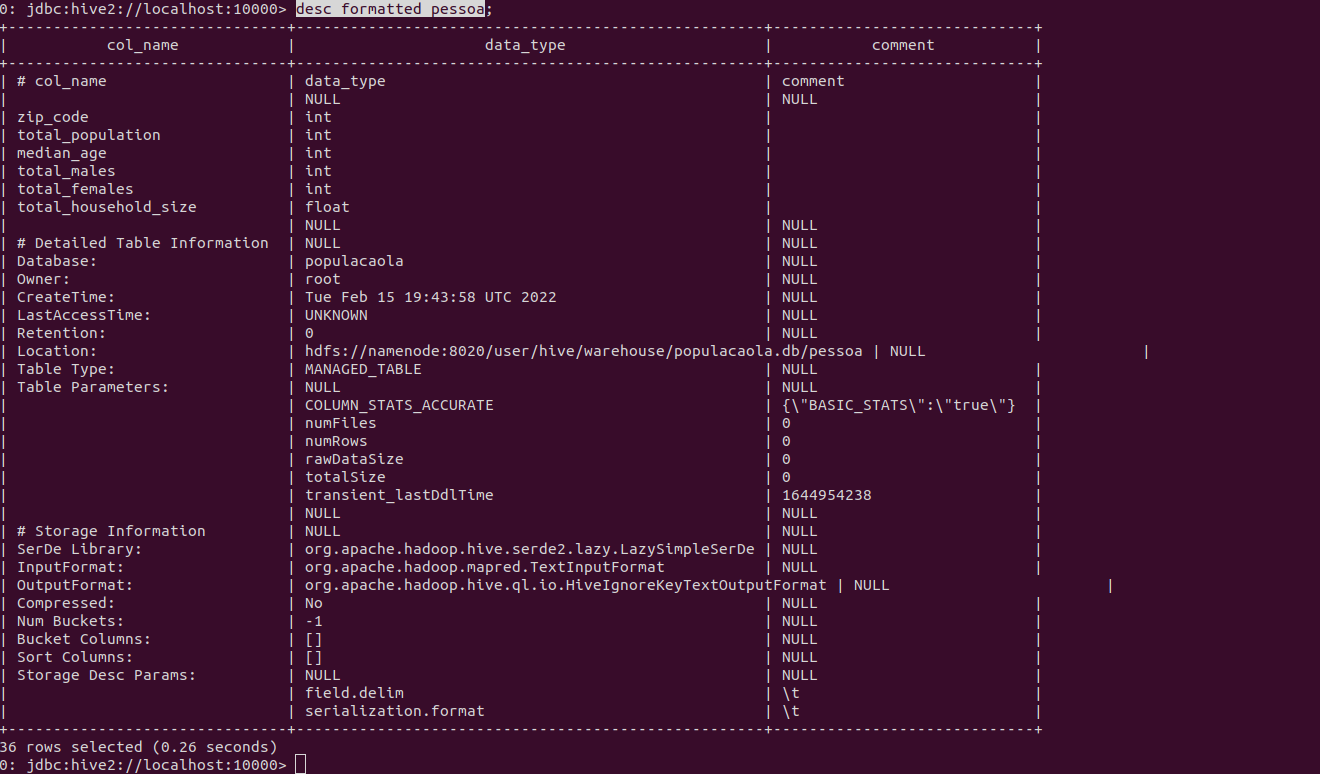
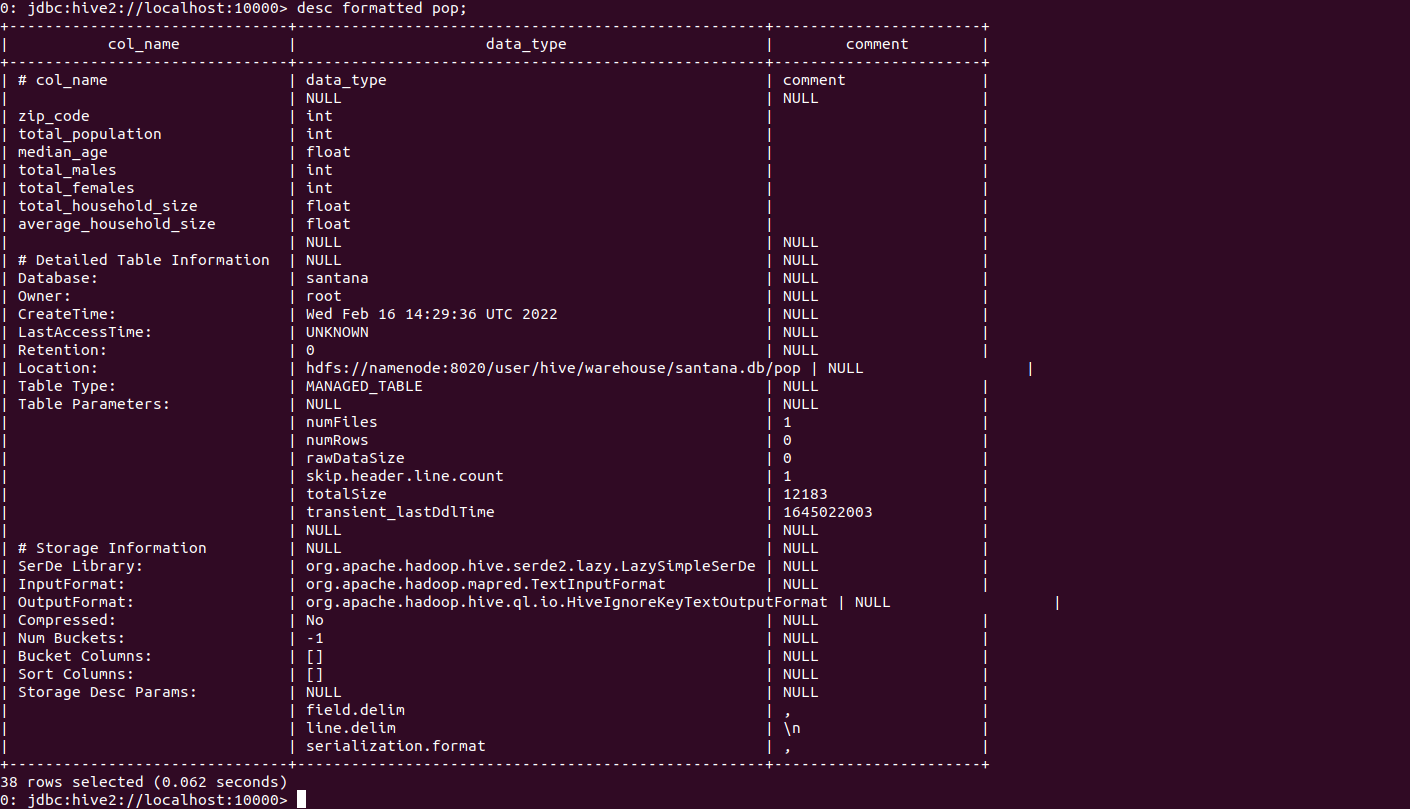
Apache Hive

Changed region(s): [[0.0, 0.0, 0.7765, 1.0], [0.0, 0.6512, 0.1553, 0.8992]]

diff --git a/.ipynb_checkpoints/README-checkpoint.md b/.ipynb_checkpoints/README-checkpoint.md
@@ -1,5 +1,7 @@
 # Apache Hive™
 
+Este artigo foi inspirado no conteúdo do curso de Engenharia de Dados, módulo Big Data Foundations na Semantix Academy e documentação do projeto Apache Hive™.
+
 Apache Hive™ é um software de Data Warehouse desenvolvido em cima do Apache Hadoop para consulta e análise de dados. O Hive oferece uma interface semelhante ao SQL para consulta de dados em diferentes bancos de dados e sistemas de arquivos integrados ao Hadoop.
 
 O Apache Hive™ facilita a leitura, consulta, gravação e gerenciamento de grandes conjuntos de dados distribuídos.
@@ -82,16 +84,18 @@ $ create database populacaoLA
 
 
 ```Python
-$ create table pessoa (
+$ create table pop (
                 zip_code INT,
                 total_population INT, 
-                median_age INT, 
+                median_age FLOAT, 
                 total_males INT, 
                 total_females INT,   
-                total_household_size FLOAT)
+                total_household_size FLOAT,
+                average_household_size FLOAT)
                 
   ROW FORMAT DELIMITED
-  FIELDS TERMINATED BY '\t';
+  FIELDS TERMINATED BY ','
+  LINES TERMINATED BY '\n'
   STORED AS TEXTFILE
   tBLPROPERTIES ("skip.header.line.count"="1");
 
@@ -104,7 +108,7 @@ $ create table pessoa (
 5. Visualizar a descrição da tabela pop
 
 ```Python
-$ desc formatted pessoa
+$ desc formatted pop
 
 
 ```
@@ -113,8 +117,34 @@ $ desc formatted pessoa
 <img src="img/desc-formatted-table.png" alt="Criar o banco de dados">
 
 
-continua...
+6. Carregar o arquivo do HDFS “/user/aluno/nome/data/população/populacaoLA.csv” para a tabela Hive pop
 
-```python
+```Python
+$ load data inpath '/user/santana/data/populacao/populacaoLA.csv' overwrite into table pop;
+$ select * from pop limit 10;
 
 ```
+
+#### Resultado:
+<img src="img/desc-select.png" alt="Carregar o arquivo do HDFS">
+
+
+
+
+<!-- #region -->
+Pronto!
+
+Chegou o final da jornada exploratória para conhecermos um pouquinho do Hive, tem muito mais comandos e funcionalidades que não foram exploradas aqui, consulte a documentação de referência.
+
+
+Espero ter contribuido com o seu desenvolvimento de alguma forma.
+
+
+[Carlos Eugênio](https://github.com/carlosemsantana)
+<!-- #endregion -->
+
+### Referências
+
+
+* [https://academy.semantix.com.br](https://academy.semantix.com.br)
+* [https://hive.apache.org/](https://hive.apache.org/)

diff --git a/README.md b/README.md
@@ -1,5 +1,7 @@
 # Apache Hive™
 
+Este artigo foi inspirado no conteúdo do curso de Engenharia de Dados, módulo Big Data Foundations na Semantix Academy e documentação do projeto Apache Hive™.
+
 Apache Hive™ é um software de Data Warehouse desenvolvido em cima do Apache Hadoop para consulta e análise de dados. O Hive oferece uma interface semelhante ao SQL para consulta de dados em diferentes bancos de dados e sistemas de arquivos integrados ao Hadoop.
 
 O Apache Hive™ facilita a leitura, consulta, gravação e gerenciamento de grandes conjuntos de dados distribuídos.
@@ -82,16 +84,18 @@ $ create database populacaoLA
 
 
 ```Python
-$ create table pessoa (
+$ create table pop (
                 zip_code INT,
                 total_population INT, 
-                median_age INT, 
+                median_age FLOAT, 
                 total_males INT, 
                 total_females INT,   
-                total_household_size FLOAT)
+                total_household_size FLOAT,
+                average_household_size FLOAT)
                 
   ROW FORMAT DELIMITED
-  FIELDS TERMINATED BY '\t';
+  FIELDS TERMINATED BY ','
+  LINES TERMINATED BY '\n'
   STORED AS TEXTFILE
   tBLPROPERTIES ("skip.header.line.count"="1");
 
@@ -104,7 +108,7 @@ $ create table pessoa (
 5. Visualizar a descrição da tabela pop
 
 ```Python
-$ desc formatted pessoa
+$ desc formatted pop
 
 
 ```
@@ -113,8 +117,34 @@ $ desc formatted pessoa
 <img src="img/desc-formatted-table.png" alt="Criar o banco de dados">
 
 
-continua...
+6. Carregar o arquivo do HDFS “/user/aluno/nome/data/população/populacaoLA.csv” para a tabela Hive pop
 
-```python
+```Python
+$ load data inpath '/user/santana/data/populacao/populacaoLA.csv' overwrite into table pop;
+$ select * from pop limit 10;
 
 ```
+
+#### Resultado:
+<img src="img/desc-select.png" alt="Carregar o arquivo do HDFS">
+
+
+
+
+<!-- #region -->
+Pronto!
+
+Chegou o final da jornada exploratória para conhecermos um pouquinho do Hive, tem muito mais comandos e funcionalidades que não foram exploradas aqui, consulte a documentação de referência.
+
+
+Espero ter contribuido com o seu desenvolvimento de alguma forma.
+
+
+[Carlos Eugênio](https://github.com/carlosemsantana)
+<!-- #endregion -->
+
+### Referências
+
+
+* [https://academy.semantix.com.br](https://academy.semantix.com.br)
+* [https://hive.apache.org/](https://hive.apache.org/)
